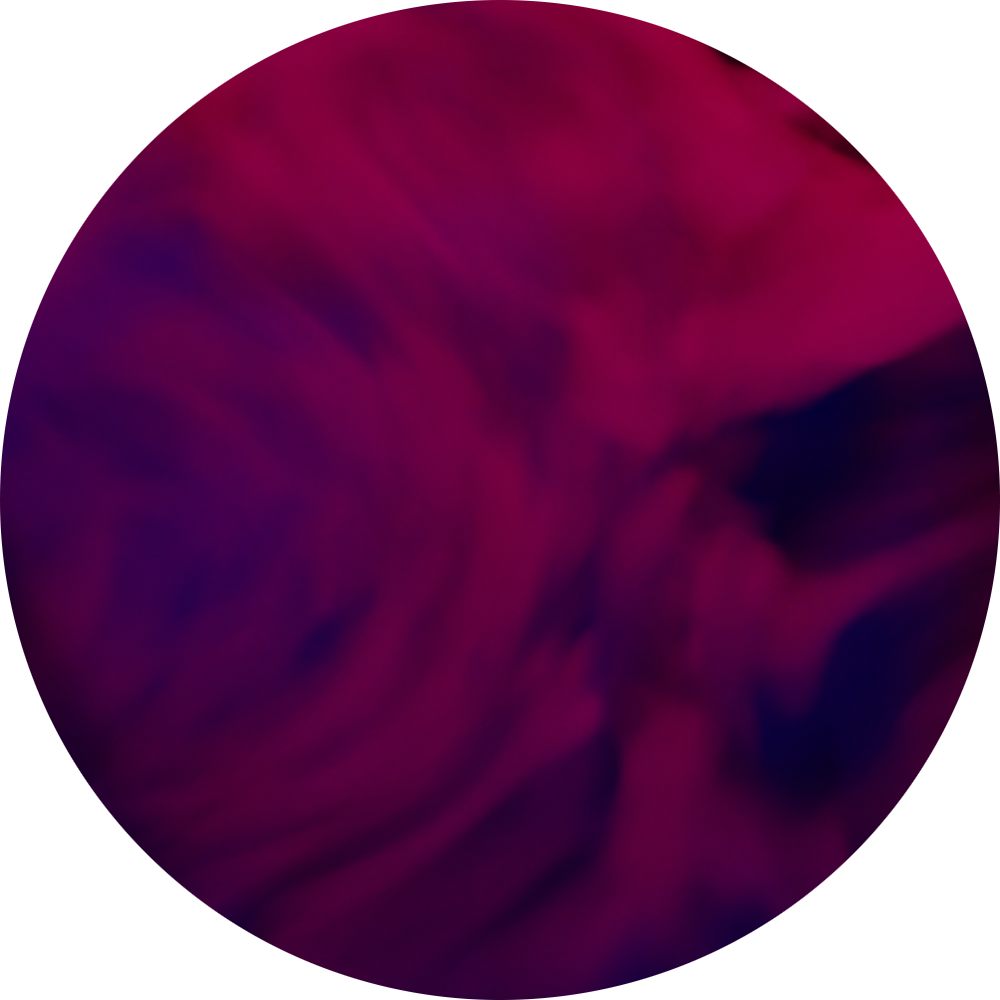
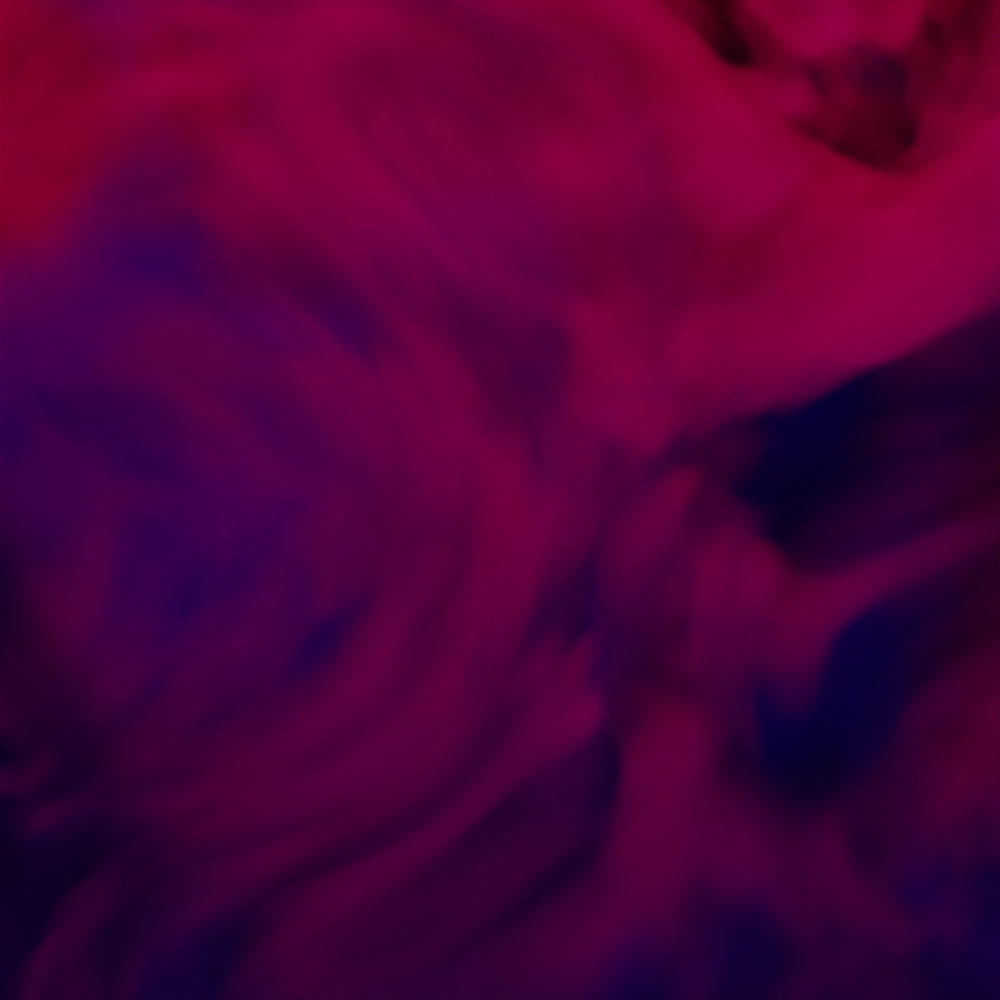
bugfixes

diff --git a/src/app/globals.css b/src/app/globals.css
@@ -163,6 +163,8 @@ p a:hover {
   width: 24px;
   height: 24px;
   transform: translateY(1px);
+  border-radius: 50%;
+  overflow: hidden;
 }
 
 .nav-link {
